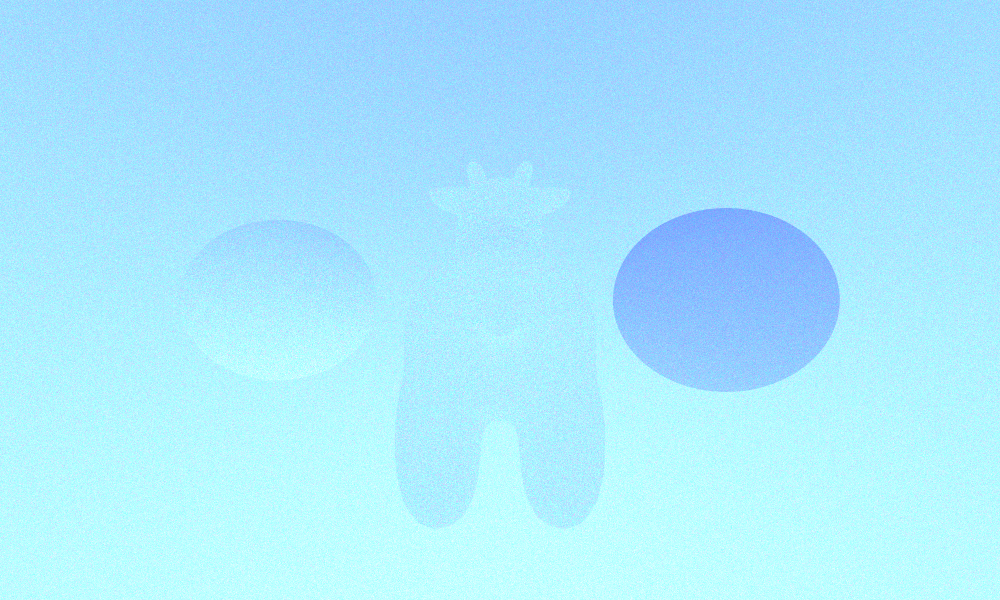
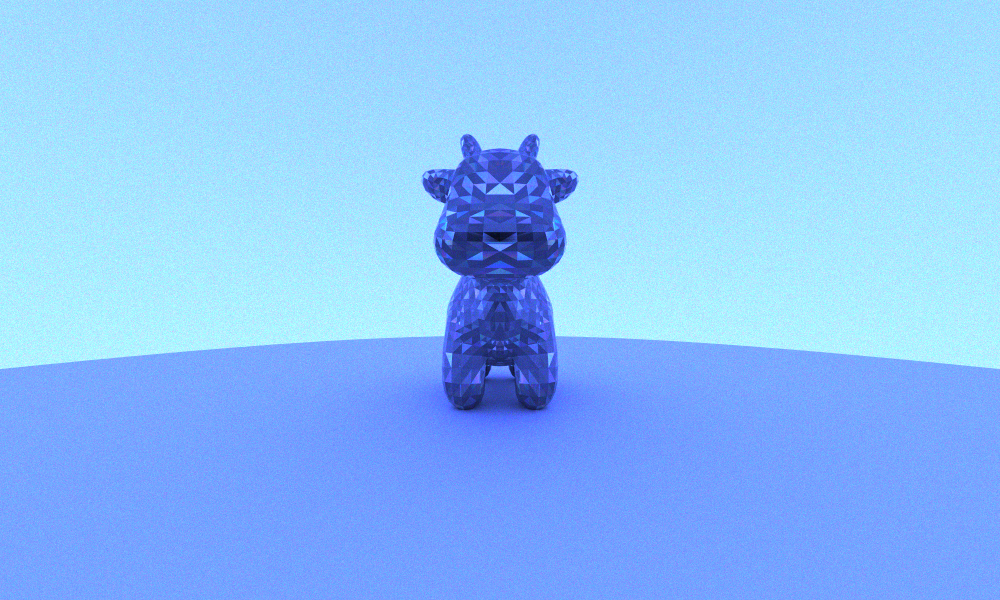
fixed first BVH implementation

diff --git a/include/intersect.hpp b/include/intersect.hpp
@@ -6,6 +6,13 @@
 #include <constants.hpp>
 #include <acceleration_ds.hpp>
 
+// Determinant epsilon guards against division by zero/NaNs
+const float EPSILON_DET  = 1e-6f;
+// Barycentric epsilon guards against cracks/gaps at creases
+const float EPSILON_BARY = 1e-5f;
+// Distance epsilon guards against ray acne
+const float EPSILON_DIST = 1e-4f;
+
 // Möller-Trumbore intersection algorithm
 // P = A + u(B-A) + v(C-A) of triangle ABC
 // P = o + td
@@ -21,28 +28,29 @@ __device__ inline bool rayTriangleIntersect(const Triangle& tri, const Ray& r, f
     Vec3 r_e2 = cross(r.dir, e2);
     float det = dot(e1, r_e2);
 
-    if (fabsf(det) < EPSILON) return false; // ray is parallel to triangle
+    if (fabsf(det) < EPSILON_DET) return false; // ray is parallel to triangle
 
-    float inv_det = 1.0 / det;
+    float inv_det = 1.0f / det;
     Vec3 tri_to_ray = r.origin - tri.a;
     float u = inv_det * dot(tri_to_ray, r_e2);
 
-    if (u < -EPSILON || u - 1 > EPSILON) return false; // ray passes outside e2
+    if (u < -EPSILON_BARY || u - 1 > EPSILON_BARY) return false; // ray passes outside e2
 
     Vec3 ttr_e1 = cross(tri_to_ray, e1);
     float v = inv_det * dot(r.dir, ttr_e1);
 
-    if (v < -EPSILON || u + v - 1 > EPSILON) return false; // ray passes outside e1
+    if (v < -EPSILON_BARY || u + v - 1 > EPSILON_BARY) return false; // ray passes outside e1
 
     tOut = inv_det * dot(e2, ttr_e1);
-    if (tOut < EPSILON) return false;
+    if (tOut < EPSILON_DIST) return false;
     return true;
 }
 
 // we assume only leafs get sent here
-__device__ bool inline rayLeafIntersect(const Ray& r, const DeviceBVH& bvh, const BVHNode* node, float& tOut) {
+__device__ bool inline rayLeafIntersect(const Ray& r, const DeviceBVH& bvh, const BVHNode* node, float& tOut, Vec3& nOut) {
     float closestT = 1e20;
     float hit = false;
+    Vec3 closestN;
     for(uint32_t i = 0; i < node->tri_count; i++) {
         float hitT;
         uint32_t global_tri_idx = bvh.tri_idx[node->left_first + i];
@@ -50,6 +58,7 @@ __device__ bool inline rayLeafIntersect(const Ray& r, const DeviceBVH& bvh, cons
         if (rayTriangleIntersect(tri, r, hitT)) {
             if(hitT < closestT) {
                 closestT = hitT;
+                closestN = tri.normal;
             }
             hit = true;
         }
@@ -57,6 +66,7 @@ __device__ bool inline rayLeafIntersect(const Ray& r, const DeviceBVH& bvh, cons
 
     if(hit) {
         tOut = closestT;
+        nOut = closestN;
     }
     return hit;
 }
@@ -111,7 +121,7 @@ __device__ inline bool hitSphereT(const Sphere& s, const Ray& r,
 }
 
 
-__device__ inline bool rayBVHIntersect(const Ray &r, const DeviceBVH &bvh, float &tOut) {
+__device__ inline bool rayBVHIntersect(const Ray &r, const DeviceBVH &bvh, float &tOut, Vec3& nOut) {
     const BVHNode* stack[MAX_PTR_COUNT];
     const BVHNode** stackPtr = stack;
     *stackPtr++ = NULL;
@@ -123,15 +133,17 @@ __device__ inline bool rayBVHIntersect(const Ray &r, const DeviceBVH &bvh, float
 
     bool hit = false;
     float closestT = 1e20;
-
+    Vec3 closestN;
     const BVHNode* node = root;
 
     while (node != NULL) {
         if(node->is_leaf()) {
             float hitT;
-            if(rayLeafIntersect(r, bvh, node, hitT)) {
+            Vec3 hitN;
+            if(rayLeafIntersect(r, bvh, node, hitT, hitN)) {
                 if(hitT < closestT) {
                     closestT = hitT;
+                    closestN = hitN;
                     hit = true;
                 }
             }
@@ -166,6 +178,7 @@ __device__ inline bool rayBVHIntersect(const Ray &r, const DeviceBVH &bvh, float
 
     if(hit) {
         tOut = closestT;
+        nOut = closestN;
     }
     return hit;
 }

diff --git a/include/geometry.hpp b/include/geometry.hpp
@@ -5,8 +5,20 @@
 #include <materials.hpp>
 #include <algorithm>
 
+// a smart person would have used float3 from the start
 struct Vec3 {
     float x,y,z;
+    __host__ __device__ Vec3() : x(0.0f), y(0.0f), z(0.0f) {}
+    __host__ __device__ Vec3(float x, float y, float z) : x(x), y(y), z(z) {}
+    __host__ __device__ Vec3(const Vec3& other) : x(other.x), y(other.y), z(other.z) {}
+    __host__ __device__ Vec3& operator=(const Vec3& other) {
+        if (this != &other) {
+            x = other.x;
+            y = other.y;
+            z = other.z;
+        }
+        return *this;
+    }
     __host__ __device__ float  operator[](int i) const {
         return i == 0 ? x : (i == 1 ? y : z);
     }
@@ -33,12 +45,9 @@ struct Hit    { float t; Vec3 p; Vec3 n; bool front_face; const Material* mat; }
 
 struct Sphere { Vec3 center; float radius; Material mat; };
 
-struct Triangle { Vec3 a, b, c; };
-
-__host__ __device__ inline Vec3 getNormal(const Triangle& t) {
-    Vec3 ba = t.b - t.a;
-    Vec3 ca = t.c - t.a;
-    return cross(ba, ca);
+struct Triangle {
+    Vec3 a, b, c;
+    Vec3 normal;
 };
 
 

diff --git a/src/io.cpp b/src/io.cpp
@@ -27,7 +27,13 @@ std::vector<Triangle> loadObj(const std::string& path) {
                              attrib.vertices[3*vi + 1],
                              attrib.vertices[3*vi + 2] };
             };
-            tris.push_back({ vert(0), vert(1), vert(2) });
+            Vec3 v0 = vert(0);
+            Vec3 v1 = vert(1);
+            Vec3 v2 = vert(2);
+
+            // Calculate the geometric normal vector
+            Vec3 norm = normalize(cross(v1 - v0, v2 - v0));
+            tris.push_back({ v0, v1, v2, norm });
         }
     }
     return tris;

diff --git a/include/acceleration_ds.hpp b/include/acceleration_ds.hpp
@@ -3,7 +3,6 @@
 
 #include <hip/hip_runtime.h>
 #include <gpu_ds.hpp>
-#include <algorithm>
 #include <vector>
 #include <geometry.hpp>
 #include "materials.hpp"
@@ -43,7 +42,7 @@ struct DeviceBVH {
     BVHNode* nodes;
     uint32_t* tri_idx;
     Triangle* tris;
-    Material mat = make_lambertian(1.0);
+    Material mat = make_dielectric();
 
     __device__ const BVHNode* getRoot() const {
         return &nodes[0];

diff --git a/include/constants.hpp b/include/constants.hpp
@@ -17,6 +17,6 @@ const float NORMALIZATION_CONSTANT = 0.011;
 // math
 const float PI = 3.14159265359;
 const float TWO_PI = 6.28318530718;
-const float EPSILON = 0.0001;
+const float EPSILON = 1e-5;
 
 #endif